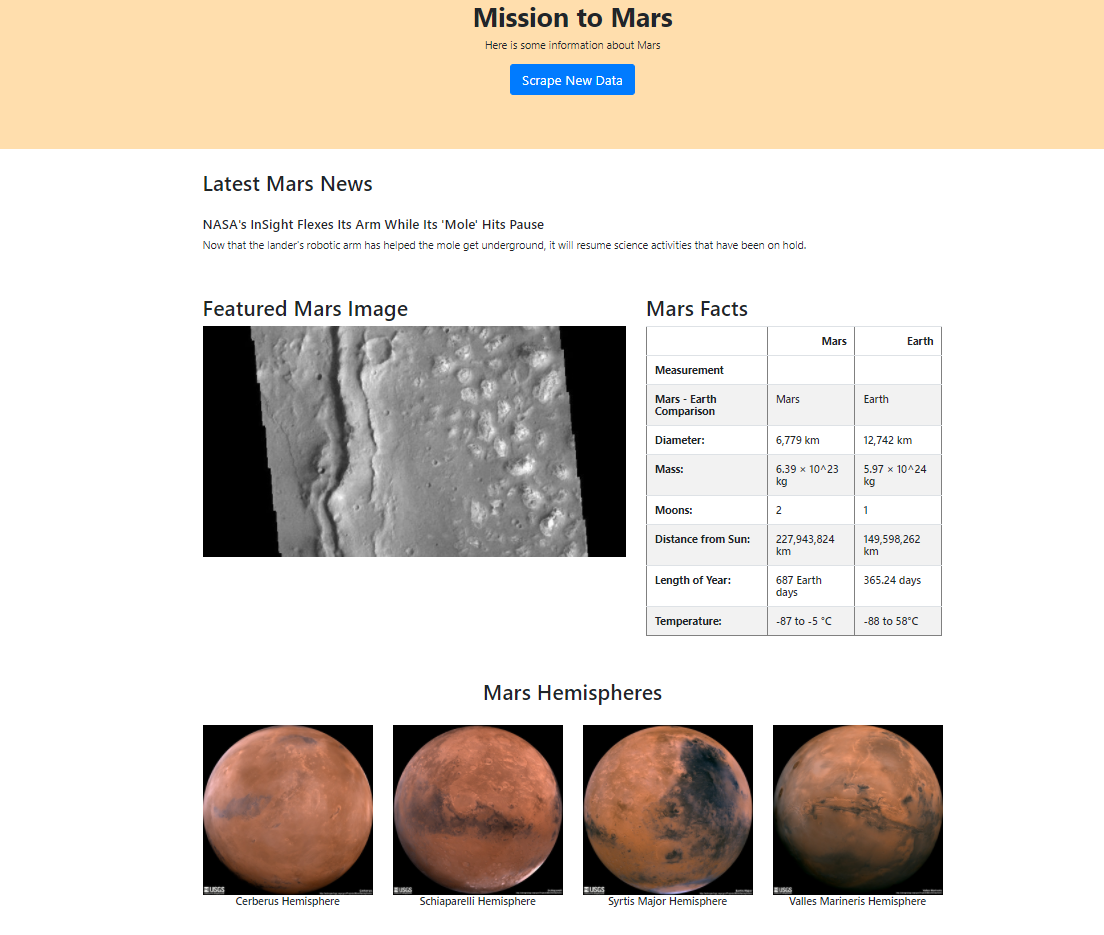
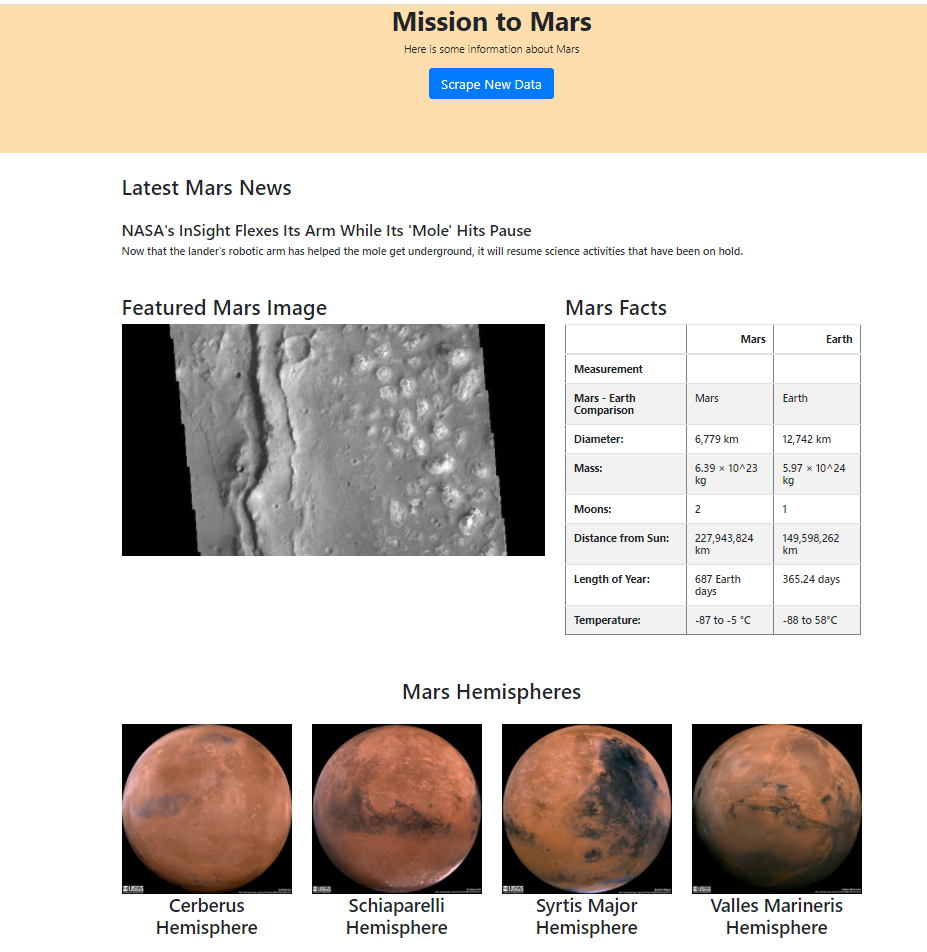
index html updates

diff --git a/web-scraping-challenge/Missions_to_Mars/Templates/index.html b/web-scraping-challenge/Missions_to_Mars/Templates/index.html
@@ -18,8 +18,8 @@
                     <div class="col-md-12">
                         <h2>Latest Mars News</h2>
                         <br>
-                        <h5>{{ mars_data.news_title }}</h5>
-                        <p>{{ mars_data.news_p }}</p>
+                        <h4>{{ mars_data.news_title }}</h4>
+                        <h6>{{ mars_data.news_p }}</h6>
                     </div>
                 </div>
             </div>
@@ -41,11 +41,9 @@
                         <div class="row">
                             <div class="col-md-12">
                             <div class="table table-striped">
-                            
                                 <h2>Mars Facts</h2>
                                 <h6>{{mars_data.marsfacts | safe}} </h6>
                                 <p></p>
-            
                             </div>
                             </div>
                         </div>
@@ -67,7 +65,7 @@
                                     <div class="col-md-3">
                                         <div class="thumbnail">
                                             <img class="img-fluid" src="{{hemi.image}}"  alt="mars pic">
-                                            <h6>{{hemi.title}}</h6>
+                                            <h3>{{hemi.title}}</h3>
                                             <br>
                                             <br>
                                         </div>
